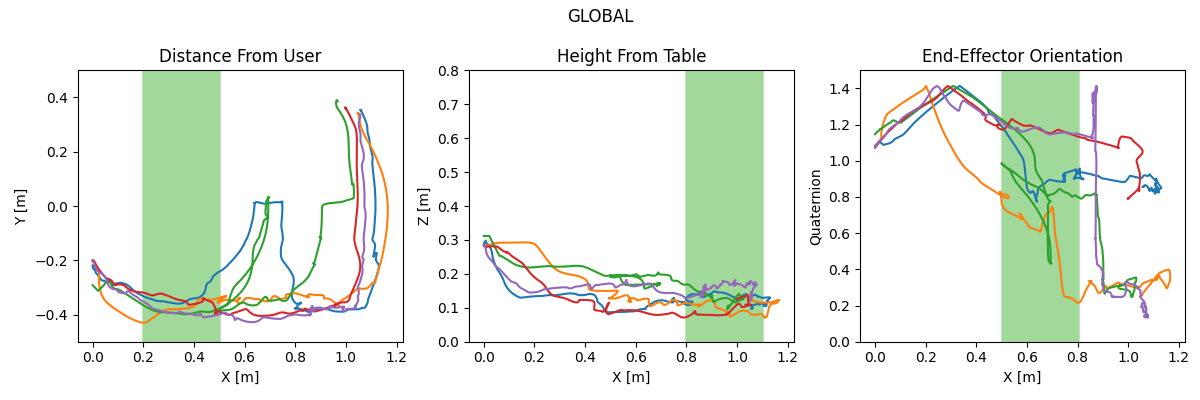
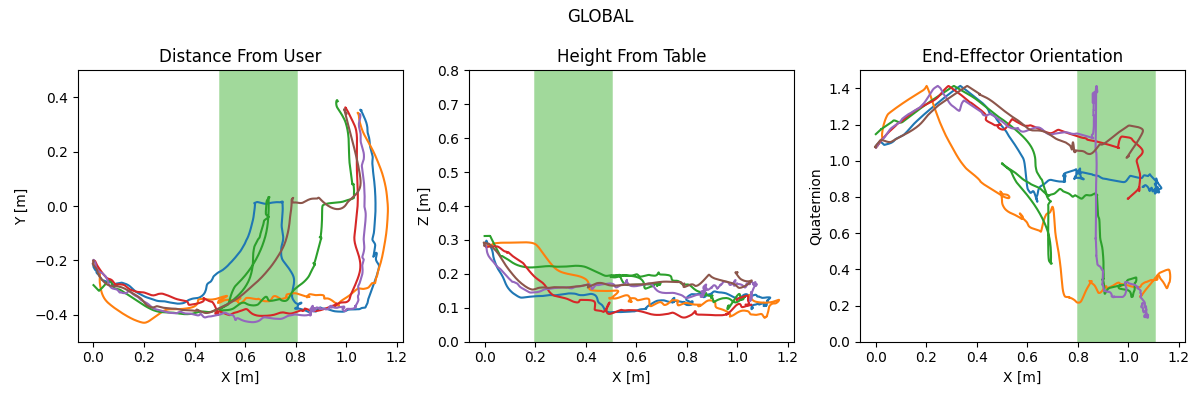
highlights fixed

diff --git a/plot_error.py b/plot_error.py
@@ -1,0 +1,132 @@
+import time
+import numpy as np
+import pickle
+import argparse
+import matplotlib.pyplot as plt
+from pyquaternion import Quaternion
+from scipy import interpolate
+
+from utils import *
+
+
+Panda = TrajectoryClient()
+
+def region(ax, start_marg, end_marg):
+    ax.axvspan(start_marg, end_marg, color='#a1d99b')
+
+
+X = {}
+Y = {}
+Z = {}
+Quat = {}
+n = 6
+
+for method in ["GUI", "local", "global"]:
+    fig, (ax1, ax2, ax3) = plt.subplots(1, 3, figsize=(12,4))
+    fig.suptitle(method.upper())
+
+    x = {}
+    y = {}
+    z = {}
+    quat = {}
+
+
+    def get_idx(X):
+        idx_1 = len(X[X < x_margin_1])
+        idx_2 = len(X[(X > x_margin_1) & (X < x_margin_2)])
+        idx_3 = len(X[(X > x_margin_2) & (X < x_margin_3)])
+        return idx_1, idx_2, idx_3
+
+
+    for user_n in range(1, n+1):
+        filename = "data/demos/user_" + str(user_n) + "_" + method +  ".pkl"
+        file = open(filename, "rb")
+        data = pickle.load(file)
+
+        R = data["rotation matrix"]
+        ee = data["ee positions"]
+        points = np.array(ee).T
+        x["user_" + str(user_n)] = points[0,:]
+
+
+
+        marg_1_idx, marg_2_idx, marg_3_idx = get_idx(points[0, :])
+        if method == "GUI":
+            z["user_" + str(user_n)] = points[2,:][:marg_1_idx]
+            y["user_" + str(user_n)] = points[1,:][marg_1_idx:marg_2_idx]
+            R = R[marg_2_idx:marg_3_idx]
+
+        elif method == "local":
+            z["user_" + str(user_n)] = points[2,:][:marg_1_idx]
+            R = R[:marg_1_idx]
+            y["user_" + str(user_n)] = points[1,:][marg_1_idx:marg_2_idx]
+
+
+        elif method == "global":
+            pass
+
+
+        quat_diff = []
+        for r in R:
+            quat_diff.append(Quaternion.absolute_distance(Panda.rot2quat(R_desire),
+                                                          Panda.rot2quat(r)))
+        quat["user_" + str(user_n)] = quat_diff
+
+
+    X[method] = x
+    Y[method] = y
+    Z[method] = z
+    Quat[method] = quat
+
+
+
+    # ### plot user demonstrations ###
+    # for user_n in range(1, n+1):
+    #
+    #     # distance
+    #     ax1.plot(X[method]["user_" + str(user_n)], Y[method]["user_" + str(user_n)], label="user_" + str(user_n))
+    #     ax1.set_xlabel('X [m]')
+    #     ax1.set_ylabel('Y [m]')
+    #     ax1.set_ylim(-0.5, 0.5)
+    #     ax1.title.set_text('Distance From User')
+    #     if method == "GUI":
+    #         region(ax3, 0.8, 1.1)
+    #     elif method == "global":
+    #         region(ax3, 0.5, 0.8)
+    #     elif method == "local":
+    #         region(ax3, 0.8, 1.1)
+    #
+    #     # height
+    #     ax2.plot(X[method]["user_" + str(user_n)], Z[method]["user_" + str(user_n)])
+    #     ax2.set_xlabel('X [m]')
+    #     ax2.set_ylabel('Z [m]')
+    #     ax2.set_ylim(0, 0.8)
+    #     ax2.title.set_text('Height From Table')
+    #     if method == "GUI":
+    #         region(ax1, 0.2, 0.5)
+    #     elif method == "global":
+    #         region(ax1, 0.2, 0.5)
+    #     elif method == "local":
+    #         region(ax1, 0.5, 0.8)
+    #
+    #     # orientation
+    #     ax3.plot(X[method]["user_" + str(user_n)], Quat[method]["user_" + str(user_n)])
+    #     ax3.set_xlabel('X [m]')
+    #     ax3.set_ylabel('Quaternion')
+    #     ax3.set_ylim(0, 1.5)
+    #     ax3.title.set_text('End-Effector Orientation')
+    #     if method == "GUI":
+    #         region(ax2, 0.5, 0.8)
+    #     elif method == "global":
+    #         region(ax2, 0.8, 1.1)
+    #     elif method == "local":
+    #         region(ax2, 0.2, 0.5)
+    #
+    #
+    # plt.tight_layout()
+    # plt.savefig("results_plot/" + method + ".png")
+
+
+
+# def compute_error(X, Y, Z, Quat, method, user):
+#     X[method][user]

diff --git a/plot_traj.py b/plot_traj.py
@@ -8,11 +8,6 @@ from scipy import interpolate
 
 from utils import *
 
-########## margins in workspace ##########
-ee_home_x = 0.2
-x_margin_1 = 0.5
-x_margin_2 = 0.8
-x_margin_3 = 1.1
 
 Panda = TrajectoryClient()
 
@@ -23,7 +18,7 @@ X = {}
 Y = {}
 Z = {}
 Quat = {}
-n = 5
+n = 6
 
 for method in ["none", "GUI", "local", "global"]:
     fig, (ax1, ax2, ax3) = plt.subplots(1, 3, figsize=(12,4))
@@ -68,11 +63,11 @@ for method in ["none", "GUI", "local", "global"]:
         ax1.set_ylim(-0.5, 0.5)
         ax1.title.set_text('Distance From User')
         if method == "GUI":
-            region(ax3, x_margin_2, x_margin_3)
+            region(ax1, 0.8, 1.1)
         elif method == "global":
-            region(ax3, x_margin_1, x_margin_2)
+            region(ax1, 0.5, 0.8)
         elif method == "local":
-            region(ax3, x_margin_2, x_margin_3)
+            region(ax1, 0.8, 1.1)
 
         # height
         ax2.plot(X[method]["user_" + str(user_n)], Z[method]["user_" + str(user_n)])
@@ -81,11 +76,11 @@ for method in ["none", "GUI", "local", "global"]:
         ax2.set_ylim(0, 0.8)
         ax2.title.set_text('Height From Table')
         if method == "GUI":
-            region(ax1, ee_home_x, x_margin_1)
+            region(ax2, 0.2, 0.5)
         elif method == "global":
-            region(ax1, ee_home_x, x_margin_1)
+            region(ax2, 0.2, 0.5)
         elif method == "local":
-            region(ax1, x_margin_1, x_margin_2)
+            region(ax2, 0.5, 0.8)
 
         # orientation
         ax3.plot(X[method]["user_" + str(user_n)], Quat[method]["user_" + str(user_n)])
@@ -94,11 +89,11 @@ for method in ["none", "GUI", "local", "global"]:
         ax3.set_ylim(0, 1.5)
         ax3.title.set_text('End-Effector Orientation')
         if method == "GUI":
-            region(ax2, x_margin_1, x_margin_2)
+            region(ax3, 0.5, 0.8)
         elif method == "global":
-            region(ax2, x_margin_2, x_margin_3)
+            region(ax3, 0.8, 1.1)
         elif method == "local":
-            region(ax2, ee_home_x, x_margin_1)
+            region(ax3, 0.2, 0.5)
 
 
     plt.tight_layout()

diff --git a/utils.py b/utils.py
@@ -18,6 +18,11 @@ R_desire = np.array([[ 7.44356863e-01,  6.66865793e-01,  3.49696414e-02],
                     [ 6.66166262e-01, -7.45177629e-01,  3.05419708e-02],
                     [ 4.64259900e-02,  5.61469737e-04, -9.98921575e-01]])
 
+########## margins in workspace ##########
+x_margin_1 = 0.15
+x_margin_2 = 0.45
+x_margin_3 = 0.75
+y_margin = 0.15
 
 ########## Serial Comm. with Arduino ##########
 def send_serial(comm, output):

diff --git a/record_demo.py b/record_demo.py
@@ -58,11 +58,11 @@ alpha = 0.4
 beta = 0.8
 max_press = 3.2
 
-# margins in robot workspace
-x_margin_1 = 0.15
-x_margin_2 = 0.45
-x_margin_3 = 0.75
-y_margin = 0.15
+# # margins in robot workspace
+# x_margin_1 = 0.15
+# x_margin_2 = 0.45
+# x_margin_3 = 0.75
+# y_margin = 0.15
 
 while not shutdown:
     # read robot states
